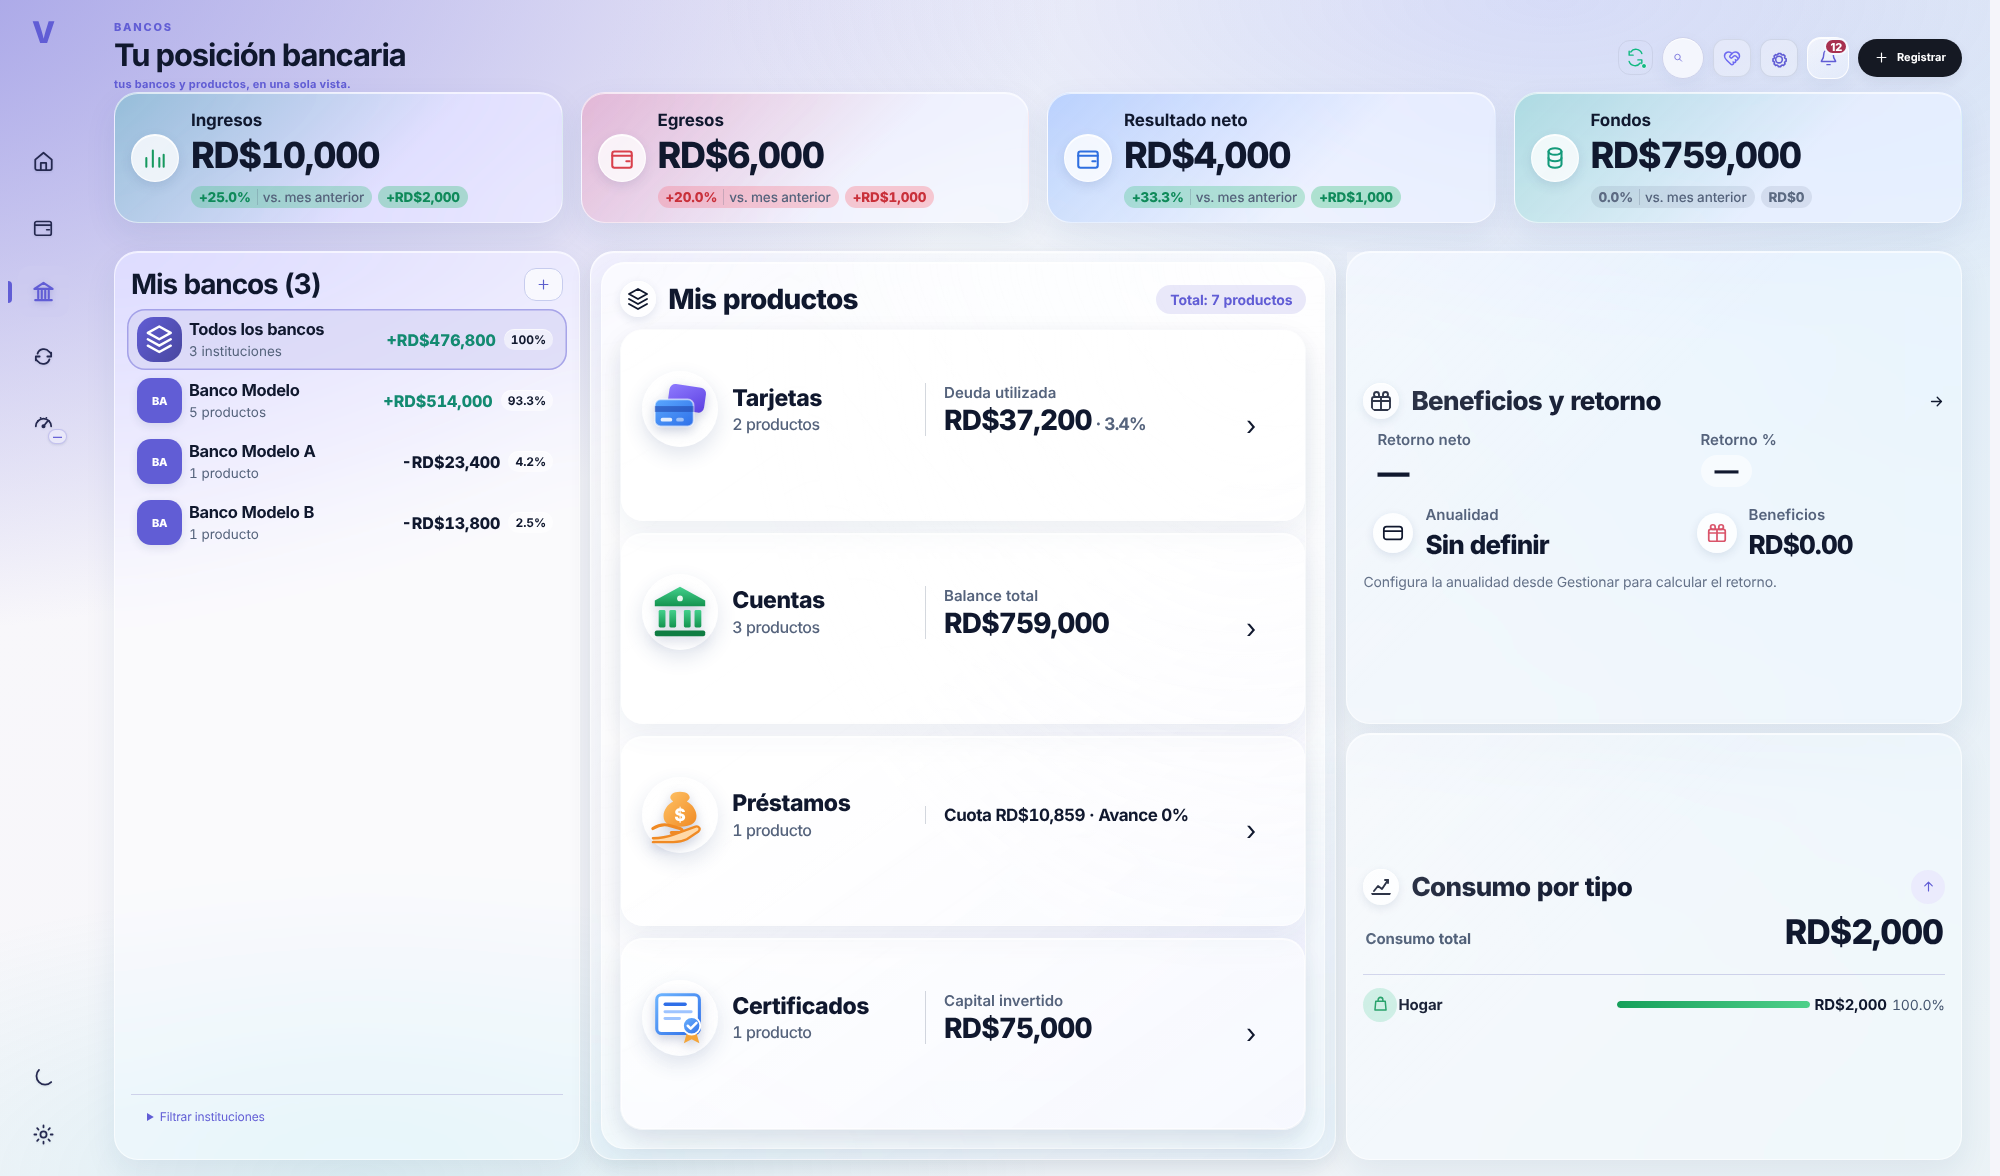
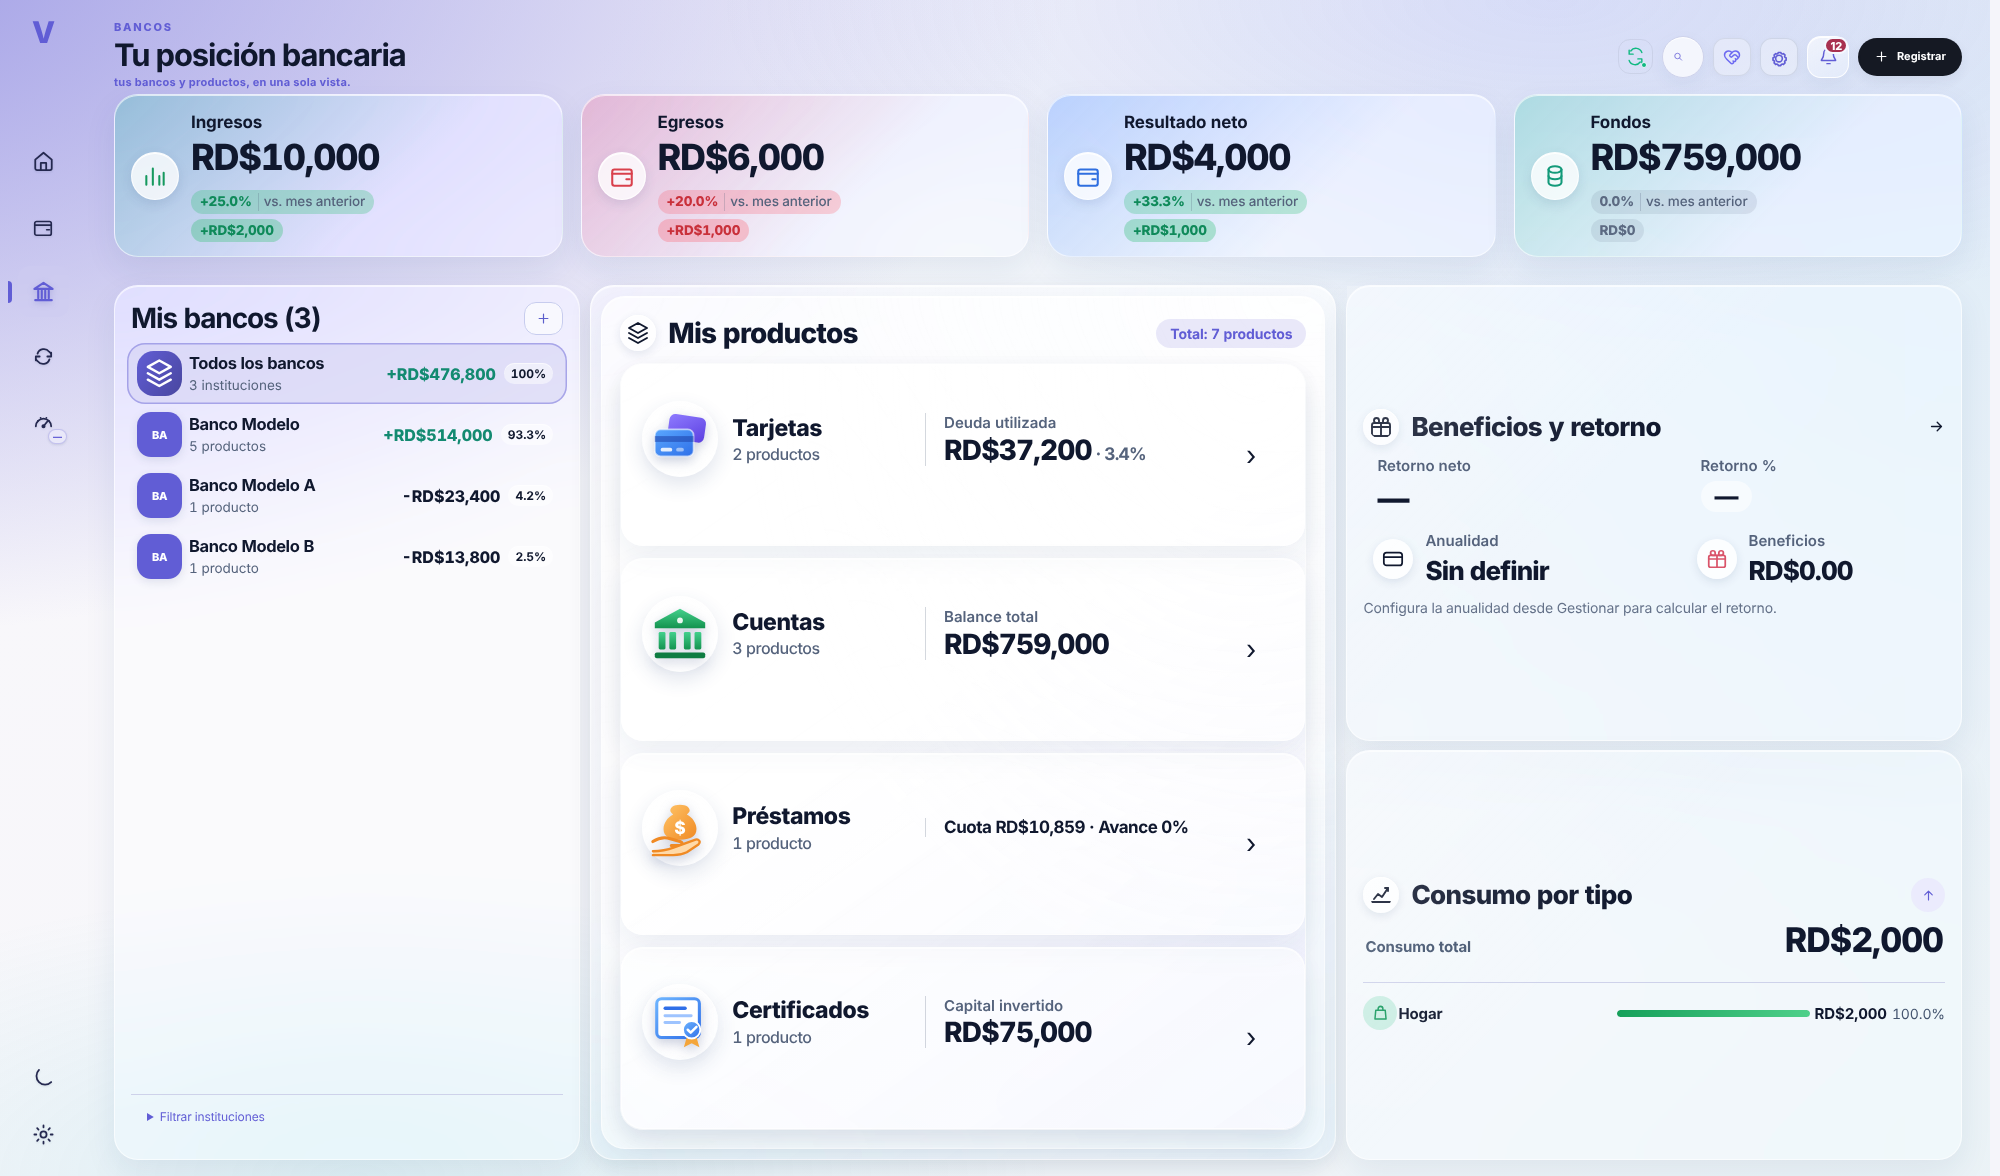
Bancos PC: KPI con alturas iguales, cápsulas consistentes e icono centrado
Claude-Session: https://claude.ai/code/session_01AwzF8JXGCqasa7rHAy2PHn

diff --git a/src/bancos-pc-glass.css b/src/bancos-pc-glass.css
@@ -238,3 +238,18 @@
  html body #app#app#app main.vBanksPc-world #page#page .vBanksPc-mockup .vBanksPc-overview-icon{background:radial-gradient(circle at 50% 60%,rgba(255,255,255,.75),rgba(255,255,255,.25) 70%)!important;padding:0!important;width:76px!important;height:76px!important}
  html body #app#app#app main.vBanksPc-world #page#page .vBanksPc-mockup .vBanksPc-overview-icon svg{width:62px!important;height:62px!important;filter:drop-shadow(0 4px 6px rgba(40,60,120,.25))}
 }
+/* KPI: alturas idénticas en las cuatro tarjetas, icono centrado y cápsulas que no se parten por separado */
+@media(min-width:791px){
+ html body #app#app#app main.vBanksPc-world #page#page .vBanksPc-metrics{align-items:stretch!important}
+ html body #app#app#app main.vBanksPc-world #page#page .vBanksPc-metric{container-type:inline-size;align-items:center!important;align-content:center!important;min-height:132px}
+ html body #app#app#app main.vBanksPc-world #page#page .vBanksPc-metric>.vBanksPc-stat-icon{align-self:center!important;margin:0!important}
+ html body #app#app#app main.vBanksPc-world #page#page .vBanksPc-metric>div{align-self:center!important;align-content:center}
+ html body #app#app#app main.vBanksPc-world #page#page .vBanksPc-var-row{display:flex!important;flex-wrap:nowrap!important;gap:6px!important;margin-top:8px!important}
+ html body #app#app#app main.vBanksPc-world #page#page .vBanksPc-var,html body #app#app#app main.vBanksPc-world #page#page .vBanksPc-var-abs{flex:0 0 auto;font-size:clamp(12px,.82vw,13.5px)!important;padding:3px 9px!important;line-height:1.3}
+ html body #app#app#app main.vBanksPc-world>.topbar{padding-bottom:10px!important;margin-bottom:18px!important}
+ html body #app#app#app main.vBanksPc-world>.topbar .top-sub{line-height:1.4!important;margin-top:4px!important}
+}
+/* Si la tarjeta es angosta: las dos cápsulas se apilan SIEMPRE, en las cuatro por igual */
+@container (max-width:470px){
+ html body #app#app#app main.vBanksPc-world #page#page .vBanksPc-var-row{flex-direction:column!important;align-items:flex-start!important;gap:5px!important}
+}

diff --git a/index.html b/index.html
@@ -31,7 +31,7 @@
 <link rel="stylesheet" href="./src/vive-score/host.css?v=8"/>
 <link rel="stylesheet" href="./src/dynamic-appearance.css?v=10"/>
 <link rel="stylesheet" href="./src/desktop-legibility.css?v=18"/>
-<link rel="stylesheet" href="./src/bancos-pc-glass.css?v=20" media="(min-width: 791px)"/>
+<link rel="stylesheet" href="./src/bancos-pc-glass.css?v=21" media="(min-width: 791px)"/>
 <link rel="stylesheet" href="./src/banks-mobile-legibility.css?v=3" media="(max-width: 790px)"/>
 <link rel="stylesheet" href="./src/banks-mobile-glass.css?v=6" media="(max-width: 790px)"/>
 <link rel="stylesheet" href="./src/wallet-glass.css?v=7"/>
